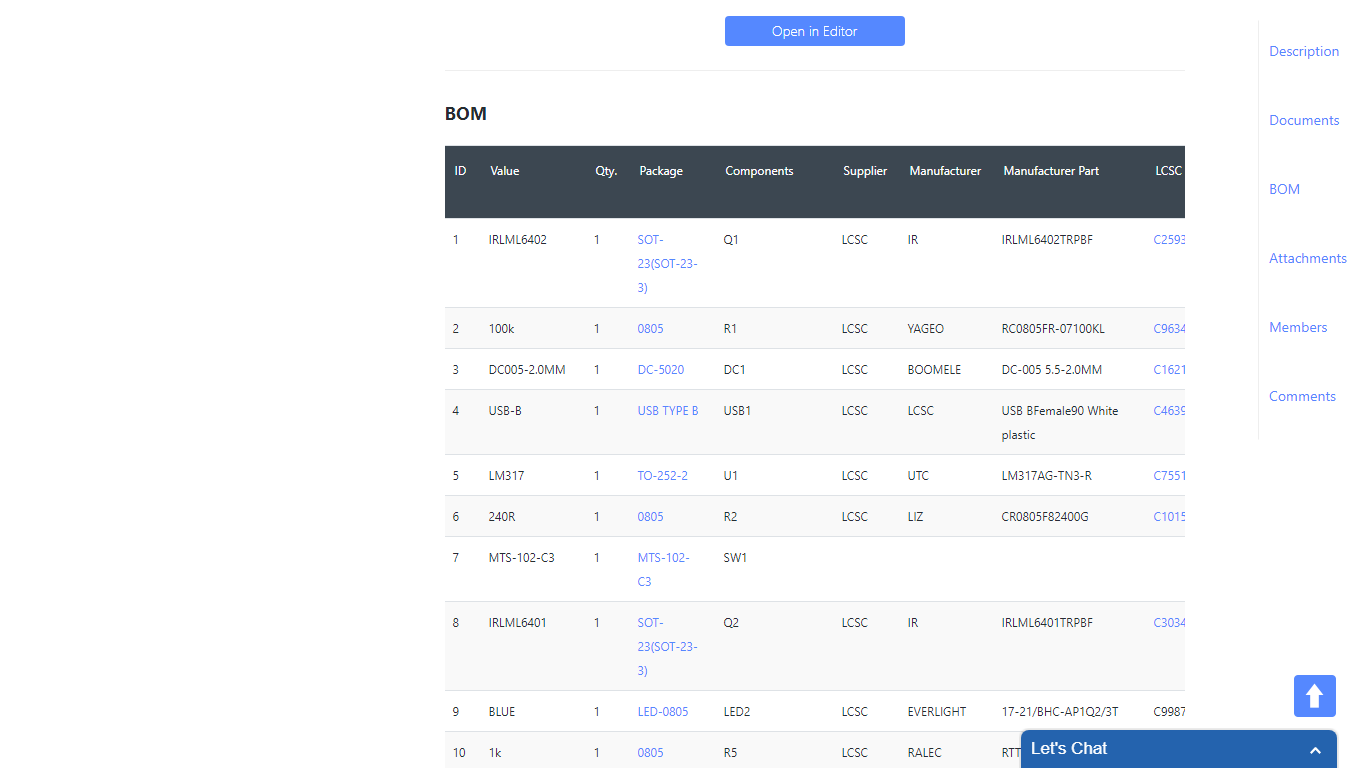
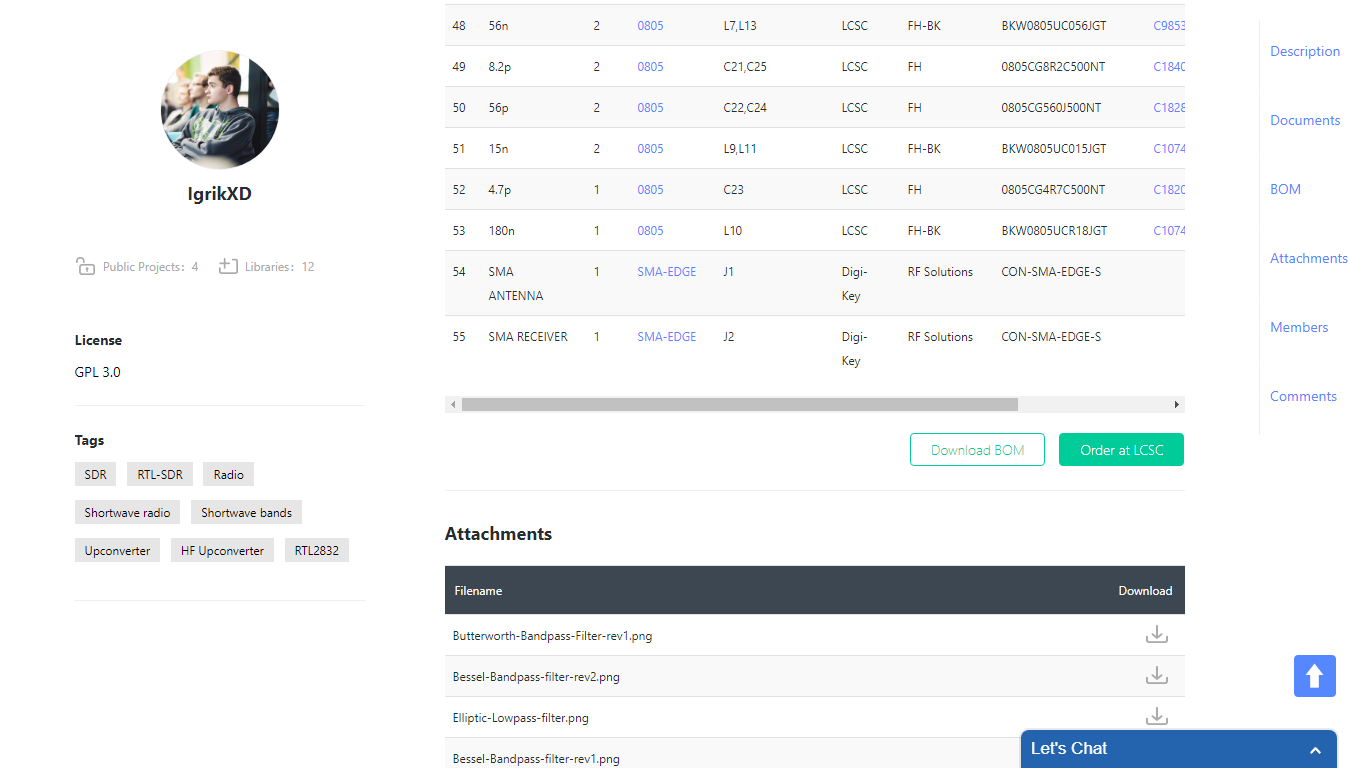
Fix articles info to new EasyEDA platform version.

diff --git a/Useful info/How to order from LCSC.md b/Useful info/How to order from LCSC.md
@@ -9,13 +9,13 @@ However, you may not find all the necessary components for the assembly, in this
 First, go to the page of the module you are interested in on the EasyEDA website.  
 ![Module page](../Resources/LCSC%20order/LCSC-1-Module-page.png)  
 
-Press the "BOM" button and go up a little higher, click the "Open in Editor" button. At this step you can view the contents of the BOM file, but you can not do anything.  
+Select the BOM section and move to the bottom of the description block. At this step you can view the contents of the BOM file, download BOM file or redirect to LCSC service to order the necessary components.  
 ![BOM select](../Resources/LCSC%20order/LCSC-2-BOM-select.png)  
 
-Click this button, whereby you will be taken to the EasyEDA editor.  
+If you want to export the BOM file while working with the PCB you can use the tools built into the editor.  
 ![Editor](../Resources/LCSC%20order/LCSC-3-Editor.png)  
 
-Now we can make exporting the BOM file or use "One-click Purchasing at LCSC". To do this, you need to on the right, in the top panel of the editor, click the "Export BOM" button.  
+Now you can make exporting the BOM file or use "One-click Purchasing at LCSC". To do this, you need to on the right, in the top panel of the editor, click the "Export BOM" button.  
 ![BOM export](../Resources/LCSC%20order/LCSC-4-BOM-export.png)  
 
 Next, small window appearing where you can see a BOM list details for choosen module. At this step, you can either just **save the BOM file, by pushing "Export BOM" button**, or making **"One-click Purchasing at LCSC"** with push corresponding button.  
@@ -27,7 +27,7 @@ If you chose to save the BOM file, this file can be uploaded to the LCSC service
 Select the previously downloaded BOM file and drag it to the download area, or select the BOM file yourself from your file system.  
 ![BOM upload](../Resources/LCSC%20order/LCSC-7-BOM-upload.png)  
 
-In the case of automatic redirection through "One-click Purchasing at LCSC" or in case of self-loading the BOM file, you will see the generated pre-order based on the received data from the BOM file. However, at this stage, there are three possible options for the availability of the necessary components:  
+In the case of automatic redirection through "One-click Purchasing at LCSC" in editor, auto redirecting from module page or in case of self-loading the BOM file, you will see the generated pre-order based on the received data from the BOM file. However, at this stage, there are three possible options for the availability of the necessary components:  
 
 Сomponent in stock. In this case, no action is required, the necessary component is present in the warehouse and will be included in our order.  ![Component in stock](../Resources/LCSC%20order/LCSC-8-Component-in-stock.png)  
 

diff --git a/Useful info/How to export Gerber file from EasyEDA.md b/Useful info/How to export Gerber file from EasyEDA.md
@@ -24,7 +24,7 @@ Also, you can find ready Gerber files for a specific module in the directory:
 First, go to the page of the module you are interested in on the EasyEDA website.  
 ![Module page](../Resources/EasyEDA%20Gerber%20export/EasyEDA-1-Module-page.png)  
 
-Select the Documents section and move to the block with PCBs. If you do not want to edit the PCB before exporting the Gerber file, then you can immediately press the "Download Gerber" button or "Order at JLCPCB" (in that case you will be redirected to JLCPCB service). After that the Gerber file will be automatically downloaded. In the case if you need to make an adjustment to an existing revision of the board - click the "Open in Editor" button.  
+Select the Documents section and move to the block with PCBs. If you do not want to edit the PCB before exporting the Gerber file, then you can immediately press the "Download Gerber" button or "Order at JLCPCB" (in that case you will be redirected to [JLCPCB] service). After that the Gerber file will be automatically downloaded. In the case if you need to make an adjustment to an existing revision of the board - click the "Open in Editor" button.  
 ![Open editor](../Resources/EasyEDA%20Gerber%20export/EasyEDA-2-Open-editor.png)  
 
 Click "Open in Editor" button, whereby you will be taken to the EasyEDA editor where you can pre-edit the layout of the PCB before exporting.  

diff --git a/Useful info/How to make a PCB (Toner transfer method).md b/Useful info/How to make a PCB (Toner transfer method).md
@@ -28,5 +28,8 @@ If you need to perform very tight placing of components or use a low thickness o
 As an example for the production of a PCB by toner transfer method, we will use the [Antenna Mini-Whip (TH)] module.
 
 ## Template preparation
+First, go to the page of the module you are interested in on the EasyEDA website.  
+![Module page](../Resources/PCB%20Toner%20transfer/PCB-1-Module-page.png)  
+
 
 [Antenna Mini-Whip (TH)]: <https://easyeda.com/igor.nikolaevich.96/Antenna_Mini_Whip-d8935f151d3a4221a9a3aacae3acdb65>
